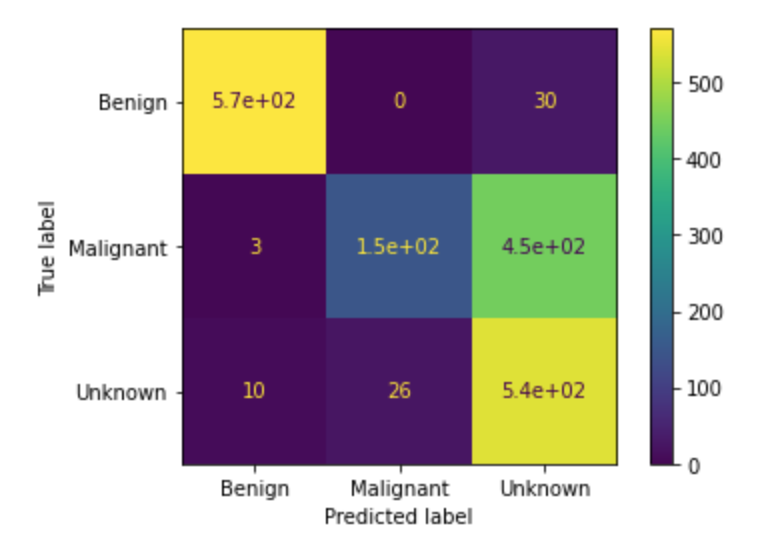
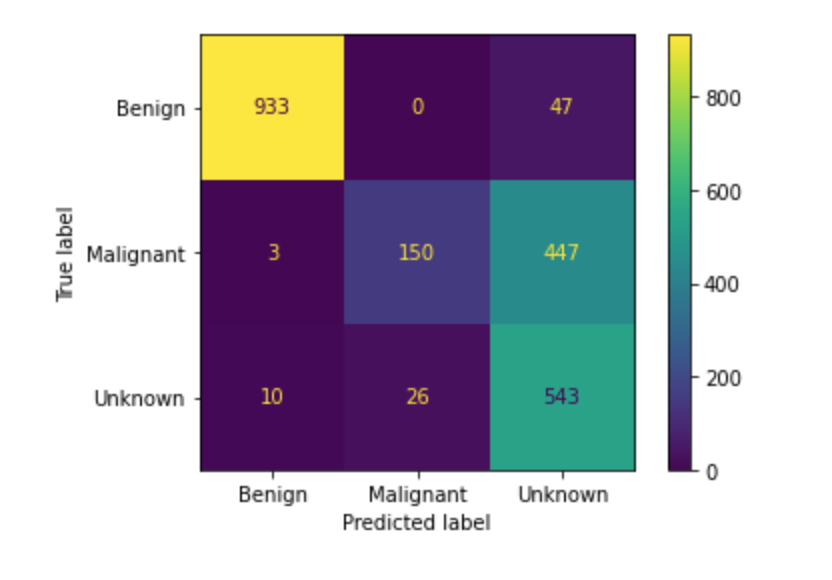
revised confusion matrix for first simple model and final model

diff --git a/code/functions.py b/code/functions.py
@@ -148,7 +148,7 @@ def visualize_nn_test(history, model, train_generator, val_generator, test_gener
 		print('')
 		print('Test Confusion Matrix')
 		print('')
-		cmd.plot();
+		cmd.plot(values_format='d');
 
 
 	else:
@@ -164,7 +164,7 @@ def visualize_nn_test(history, model, train_generator, val_generator, test_gener
 		print('')
 		print('Test Confusion Matrix')
 		print('')
-		cmd.plot();
+		cmd.plot(values_format='d');
     
     
 
@@ -234,7 +234,7 @@ def visualize_nn(history, model, train_generator, val_generator, multi=None, lab
 		print('')
 		print('Validation Confusion Matrix')
 		print('')
-		cmd.plot();
+		cmd.plot(values_format='d');
 
 
 	else:
@@ -250,7 +250,7 @@ def visualize_nn(history, model, train_generator, val_generator, multi=None, lab
 		print('')
 		print('Validation Confusion Matrix')
 		print('')
-		cmd.plot();
+		cmd.plot(values_format='d');
 
 
 
@@ -487,7 +487,7 @@ def visualize_cnn_test(history, model, train_generator, val_generator, test_gene
 		print('')
 		print('Test Confusion Matrix')
 		print('')
-		cmd.plot();
+		cmd.plot(values_format='d');
 
 
 	else:
@@ -503,7 +503,7 @@ def visualize_cnn_test(history, model, train_generator, val_generator, test_gene
 		print('')
 		print('Test Confusion Matrix')
 		print('')
-		cmd.plot();
+		cmd.plot(values_format='d');
 
 
 def visualize_cnn(history, model, train_generator, val_generator, multi=None, labels=None):
@@ -572,7 +572,7 @@ def visualize_cnn(history, model, train_generator, val_generator, multi=None, la
 		print('')
 		print('Validation Confusion Matrix')
 		print('')
-		cmd.plot();
+		cmd.plot(values_format='d');
 
 
 	else:
@@ -588,7 +588,7 @@ def visualize_cnn(history, model, train_generator, val_generator, multi=None, la
 		print('')
 		print('Validation Confusion Matrix')
 		print('')
-		cmd.plot();
+		cmd.plot(values_format='d');
 
 
 def cnn_model(cnn_filters,
